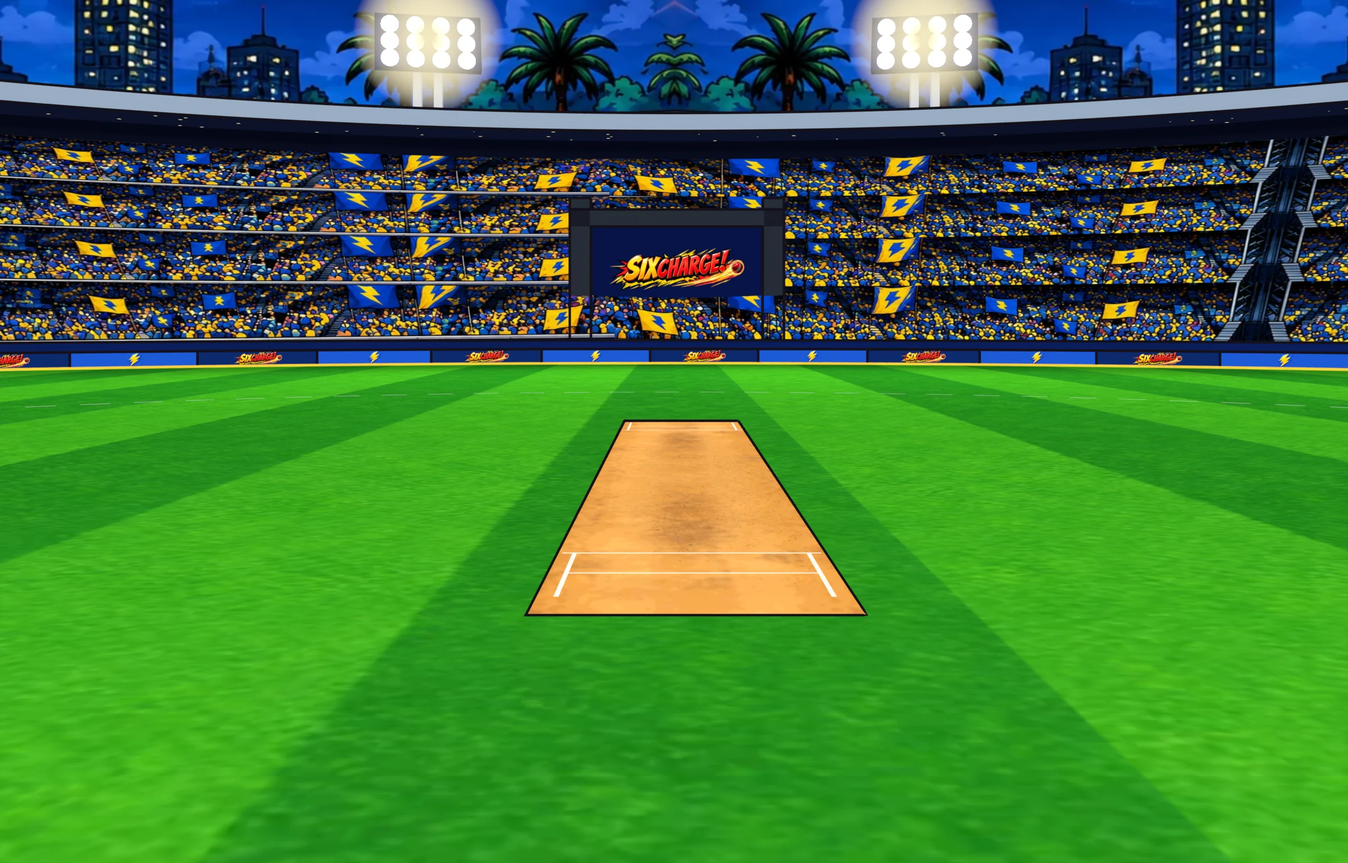
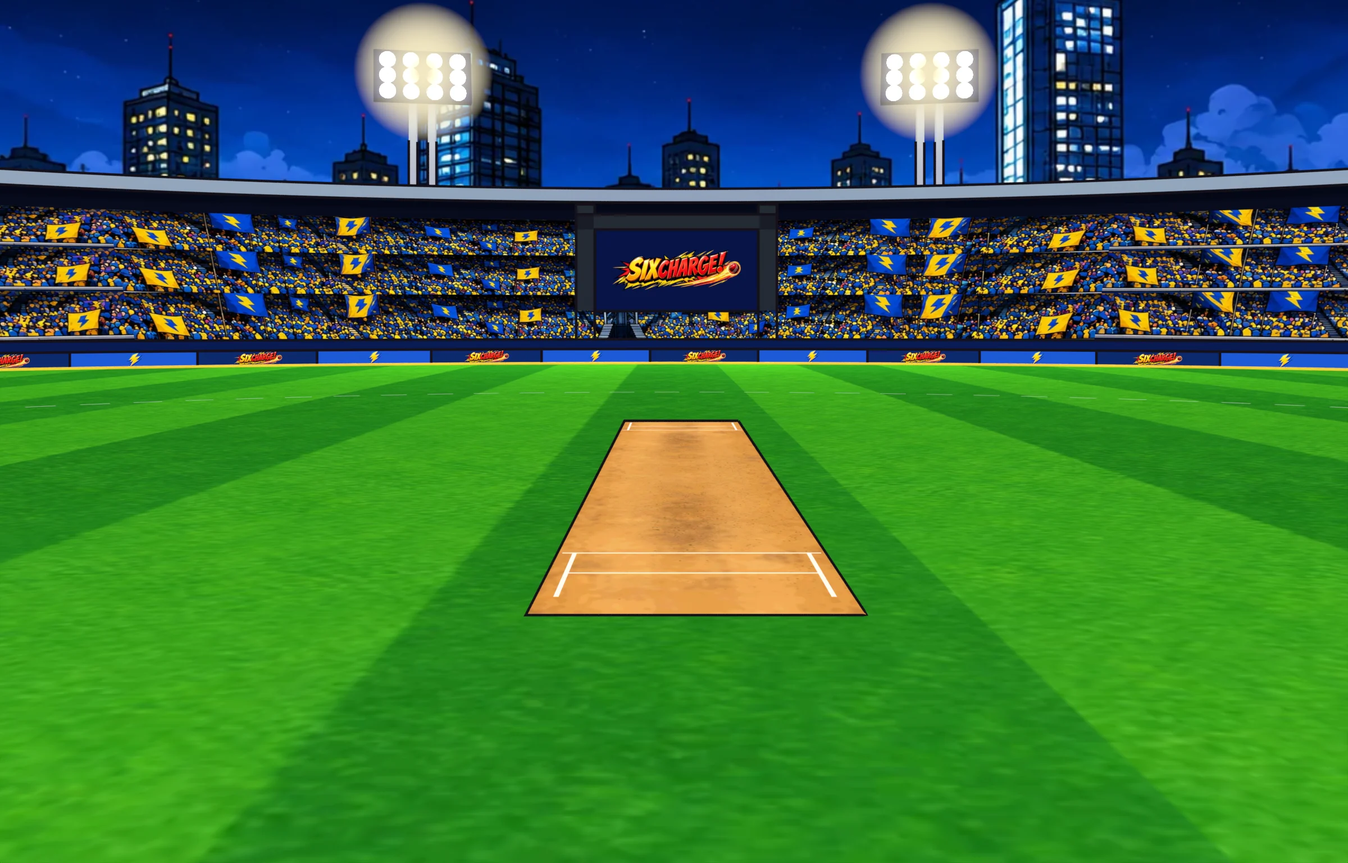
Thunderdome: stands pushed back past a grass apron, lower roof, the city rising above it
Claude-Session: https://claude.ai/code/session_01NK7tbrKg5PdA6fuyEUPXLd

diff --git a/js/groundart.js b/js/groundart.js
@@ -2,7 +2,7 @@
 // pixels. Made by tools/build_ground_art.py; clubs not listed are painted by scene.js.
 export const GROUND_ART = {
  "thunder": {
-  "views": {"bat": {"f": 1600, "w": 2400, "h": 1536, "above": 480, "top": "#011a61", "bottom": "#33a01c", "board": {"r": 63.8, "h": 0.95}, "roof": {"r": 81, "h": 19}}, "bowl": {"f": 2400, "w": 2400, "h": 1536, "above": 576, "top": "#31589b", "bottom": "#2e9b1c", "board": {"r": 63.8, "h": 0.95}, "roof": {"r": 81, "h": 19}}, "keeper": {"f": 1200, "w": 2520, "h": 1704, "above": 480, "top": "#0b1d56", "bottom": "#339f1c", "board": {"r": 63.8, "h": 0.95}, "roof": {"r": 81, "h": 19}}},
+  "views": {"bat": {"f": 1600, "w": 2400, "h": 1536, "above": 480, "top": "#112565", "bottom": "#33a01c", "board": {"r": 63.8, "h": 0.95}, "roof": {"r": 94, "h": 14.4}}, "bowl": {"f": 2400, "w": 2400, "h": 1536, "above": 576, "top": "#02174d", "bottom": "#2e9b1c", "board": {"r": 63.8, "h": 0.95}, "roof": {"r": 94, "h": 14.4}}, "keeper": {"f": 1200, "w": 2520, "h": 1704, "above": 480, "top": "#0f215d", "bottom": "#339f1c", "board": {"r": 63.8, "h": 0.95}, "roof": {"r": 94, "h": 14.4}}},
   "far": {
    "w": 2172,
    "h": 452,

diff --git a/tools/blender/thunderdome.py b/tools/blender/thunderdome.py
@@ -98,7 +98,7 @@ def grass_color(nt):
     return mix.outputs[2]
 
 grass = shaded('grass', grass_color, emit=0.62)
-bpy.ops.mesh.primitive_circle_add(vertices=256, radius=67, fill_type='TRIFAN', location=(0, 0, 0))
+bpy.ops.mesh.primitive_circle_add(vertices=256, radius=80, fill_type='TRIFAN', location=(0, 0, 0))
 g = bpy.context.active_object
 for v in g.data.vertices: v.co.y += CY
 g.data.materials.append(grass)
@@ -142,7 +142,7 @@ r = bpy.context.active_object; r.data.materials.append(rope)
 for p in r.data.polygons: p.use_smooth = True
 
 # ---------- ring helpers ----------
-def ring_surface(name, profile, mat, a0=0, a1=2 * math.pi, seg=256, u_len=None, v_rep=1, inked=False):
+def ring_surface(name, profile, mat, a0=0, a1=2 * math.pi, seg=256, u_len=None, v_rep=1, inked=False, u_off=0.0):
     """a surface of revolution round the ground centre: profile = [(radius, height)], u across the arc"""
     verts, faces, uvs = [], [], []
     n = max(2, int(seg * (a1 - a0) / (2 * math.pi)))
@@ -160,7 +160,7 @@ def ring_surface(name, profile, mat, a0=0, a1=2 * math.pi, seg=256, u_len=None, 
     def uvof(vi):
         i, j = divmod(vi, P)
         a = a0 + (a1 - a0) * i / n
-        u = (a - a0) * rm / (u_len or 1)
+        u = (a - a0 - u_off) * rm / (u_len or 1)
         return (u, v_rep * j / (P - 1))
     uv = [uvof(i) for i in range(len(verts))]
     return mesh(name, verts, faces, uvs=uv, mat=mat, inked=inked)
@@ -198,14 +198,17 @@ navy = flat('navy', '#0b1f5c', 0.45)
 fascia = flat('fascia', '#9fb0cc', 0.5)
 dark = flat('dark', '#0a0f24', 0.4)
 crowd = picture('crowd', 'crowd.png', 1.0)
-# front wall
-ring_surface('wall', [(65.2, 0), (65.2, 1.5)], navy, inked=True)
-ring_surface('walltop', [(65.2, 1.5), (65.8, 1.5)], navy)
-# the crowd, raked back: the painted crowd tiled four rows high (6 m a tile)
-ring_surface('crowd', [(65.8, 1.5), (90, 16.5)], crowd, u_len=186, v_rep=4)
-ring_surface('back', [(90, 16.5), (90, 18)], dark)
+# the stands sit well back from the rope, past a grass apron and a perimeter track, so the night
+# sky and the city show above them
+track = flat('track', '#16264f', 0.45)
+ring_surface('track', [(76, 0.01), (79, 0.01)], track)
+ring_surface('wall', [(79, 0), (79, 1.4)], navy, inked=True)
+ring_surface('walltop', [(79, 1.4), (79.6, 1.4)], navy)
+# the crowd, raked back: the painted crowd tiled three rows high (5 m a tile)
+ring_surface('crowd', [(79.6, 1.4), (99, 12.0)], crowd, u_len=155, v_rep=3)
+ring_surface('back', [(99, 12.0), (99, 13.6)], dark)
 # the roof: a light fascia, a dark underside dotted with lamps, the canopy on top
-ring_surface('fascia', [(81, 17.6), (81, 19.0)], fascia, inked=True)
+ring_surface('fascia', [(94, 13.2), (94, 14.4)], fascia, inked=True)
 under = bpy.data.materials.new('under'); under.use_nodes = True
 nt = under.node_tree; nt.nodes.clear(); o_ = nt.nodes.new('ShaderNodeOutputMaterial')
 tc = nt.nodes.new('ShaderNodeTexCoord'); vor = nt.nodes.new('ShaderNodeTexVoronoi'); vor.feature = 'DISTANCE_TO_EDGE'
@@ -216,11 +219,11 @@ mix = nt.nodes.new('ShaderNodeMix'); mix.data_type = 'RGBA'; mix.inputs[6].defau
 nt.links.new(lt.outputs[0], mix.inputs[0])
 e = nt.nodes.new('ShaderNodeEmission'); e.inputs['Strength'].default_value = 1.2
 nt.links.new(mix.outputs[2], e.inputs['Color']); nt.links.new(e.outputs[0], o_.inputs[0])
-ring_surface('under', [(81, 17.6), (90, 18)], under)
-ring_surface('canopy', [(81, 19.0), (94, 20.5)], navy, inked=True)
+ring_surface('under', [(94, 13.2), (99, 13.6)], under)
+ring_surface('canopy', [(94, 14.4), (104, 15.4)], navy, inked=True)
 
 # the big screens, one behind each end, showing the game's logo
-def screen(a, r=70.5, w=12, h0=3.4, h1=9.4):
+def screen(a, r=83.5, w=13, h0=3.6, h1=10.1):
     c, s = math.cos(a), math.sin(a)
     t = Vector((-s, c, 0))           # along the stand
     base = Vector((r * c, CY + r * s, 0))
@@ -264,8 +267,8 @@ def halo(p, rad):
 for side in (-1, 1):
     for end in (-1, 1):
         a = math.pi / 2 * end + side * math.radians(13)
-        x, y = 97 * math.cos(a), CY + 97 * math.sin(a)
-        HT = 25.0
+        x, y = 108 * math.cos(a), CY + 108 * math.sin(a)
+        HT = 24.0
         for dx in (-1, 1):  # a lattice pair of legs
             bpy.ops.mesh.primitive_cube_add(location=(x + dx * 0.9 * math.sin(a), y - dx * 0.9 * math.cos(a), HT / 2), scale=(0.35, 0.35, HT / 2))
             o = bpy.context.active_object; o.data.materials.append(tower); sc.collection.objects.unlink(o); ink.objects.link(o)
@@ -290,8 +293,8 @@ for side in (-1, 1):
 # the city behind: the painted skyline on a far cylinder, the gap below filled with its shade
 sky_pic = picture('skyline', 'skyline.png', 1.0)
 R2 = 430
-ring_surface('skyline', [(R2, 70), (R2, 150)], sky_pic, u_len=2 * math.pi * R2 / 1.0, v_rep=1)
-ring_surface('cityfoot', [(R2, -5), (R2, 70.2)], glow('cityfoot', srgb('#0b1640'), 1.0))
+ring_surface('skyline', [(R2, 30), (R2, 112)], sky_pic, u_len=2 * math.pi * R2 / 1.0, v_rep=1, u_off=math.radians(45))
+ring_surface('cityfoot', [(R2, -5), (R2, 30.2)], glow('cityfoot', srgb('#0b1640'), 1.0))
 
 # ---------- world ----------
 w = bpy.data.worlds.new('w'); sc.world = w; w.use_nodes = True
